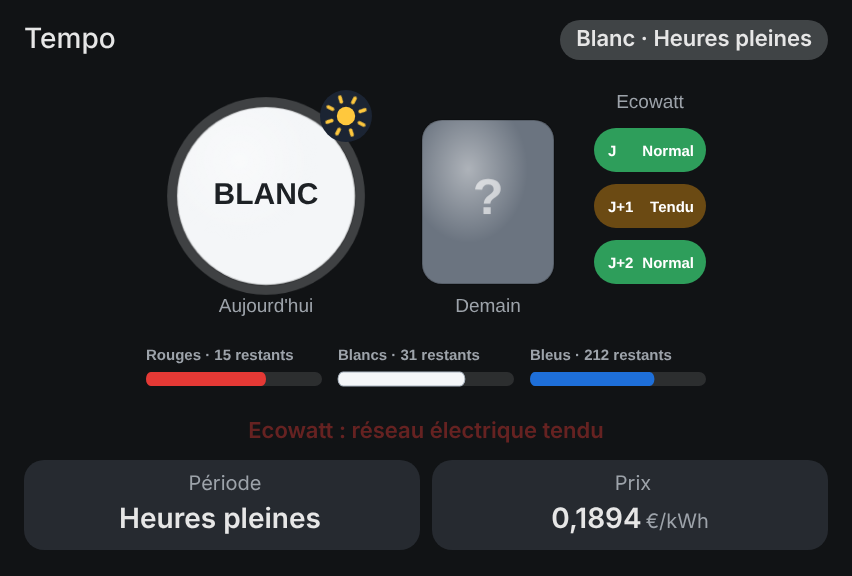
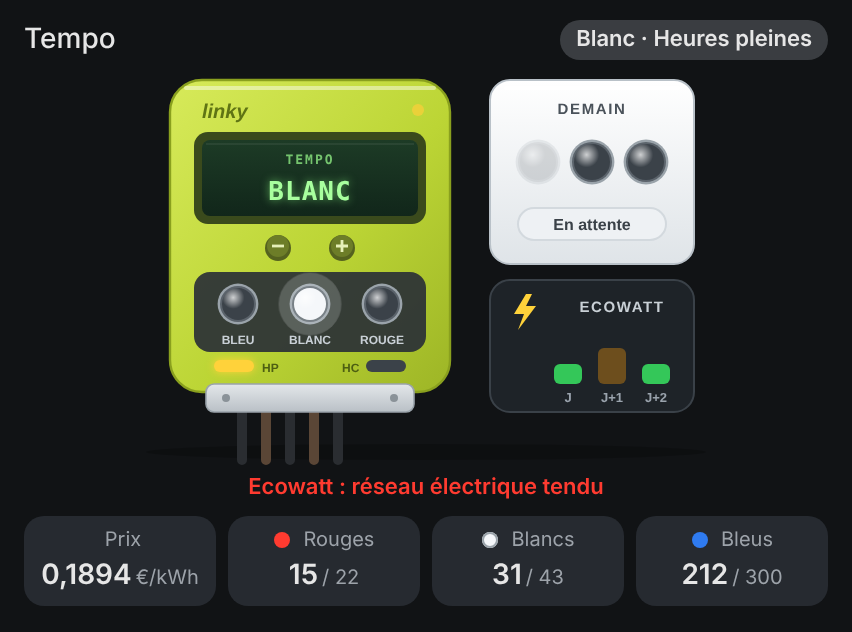
feat: redesign as a Linky meter with Tempo lamps
The plain disc and rectangle are replaced by illustrations in the style
of the appliance cards: a Linky meter whose LCD cycles through today's
colour, period and price, tomorrow and red days left, with three Tempo
lamps, HP / HC lights and a blinking consumption LED; a "tomorrow" lamp
box that chases until RTE publishes the colour; Ecowatt signal bars.
Remaining days move to the tiles.

Claude-Session: https://claude.ai/code/session_01QpEf3WWxbTtBgwTnh4yXSN

diff --git a/ha-tempo-card.js b/ha-tempo-card.js
@@ -3,9 +3,10 @@
  * type: custom:tempo-card
  * MIT License
  */
-/* Aujourd'hui : grand disque à la couleur du jour, soleil (heures pleines) ou lune (heures creuses).
- * Demain : carte « ? » qui pulse tant que RTE n'a pas publié, puis se retourne quand la couleur tombe.
- * Saison : jours rouges, blancs et bleus restants (barres). Ecowatt : J, J+1, J+2 (vert, orange, rouge).
+/* Compteur Linky : l'écran fait défiler couleur du jour, période HP / HC (et prix), lendemain, jours rouges
+ * restants ; trois voyants Tempo dont celui du jour brille ; voyants HP / HC ; LED de consommation.
+ * Boîtier « demain » : chenillard tant que RTE n'a pas publié, puis la lampe du lendemain s'allume.
+ * Ecowatt : trois barres J, J+1, J+2 (vert, orange, rouge) qui clignotent quand le réseau est tendu.
  * Sources : intégration RTE Tempo (hekmon/rtetempo), RTE Ecowatt (kamaradclimber/rte-ecowatt),
  * ou n'importe quel capteur dont l'état contient bleu / blanc / rouge (blue / white / red, 🔵 ⚪ 🔴).
  */
@@ -19,13 +20,13 @@
       name: 'Tempo', today: "Aujourd'hui", tomorrow: 'Demain', blue: 'Bleu', white: 'Blanc', red: 'Rouge', unknown: 'Inconnu',
       hp: 'Heures pleines', hc: 'Heures creuses', period: 'Période', price: 'Prix', left: 'restants', season: 'Saison',
       ecowatt: 'Ecowatt', eco_ok: 'Normal', eco_warn: 'Tendu', eco_cut: 'Coupures', eco_alert: 'Ecowatt : réseau électrique tendu',
-      red_tomorrow: 'Demain : jour ROUGE', red_now: 'Jour rouge en heures pleines', red_left: 'Rouges', white_left: 'Blancs', blue_left: 'Bleus',
+      red_tomorrow: 'Demain : jour ROUGE', red_now: 'Jour rouge en heures pleines', red_left: 'Rouges', white_left: 'Blancs', blue_left: 'Bleus', waiting: 'En attente',
     },
     en: {
       name: 'Tempo', today: 'Today', tomorrow: 'Tomorrow', blue: 'Blue', white: 'White', red: 'Red', unknown: 'Unknown',
       hp: 'Peak hours', hc: 'Off-peak hours', period: 'Period', price: 'Price', left: 'left', season: 'Season',
       ecowatt: 'Ecowatt', eco_ok: 'Normal', eco_warn: 'Strained', eco_cut: 'Outages', eco_alert: 'Ecowatt: power grid under strain',
-      red_tomorrow: 'Tomorrow: RED day', red_now: 'Red day, peak hours', red_left: 'Red', white_left: 'White', blue_left: 'Blue',
+      red_tomorrow: 'Tomorrow: RED day', red_now: 'Red day, peak hours', red_left: 'Red', white_left: 'White', blue_left: 'Blue', waiting: 'Waiting',
     },
   };
   // jours par saison Tempo (1er septembre → 31 août) : 22 rouges, 43 blancs, le reste en bleu
@@ -34,16 +35,16 @@
 
   const CSS = `
 :host{display:block}
-ha-card{display:block;padding:10px 12px 12px;overflow:hidden;--tp-blue:#1e6fd9;--tp-white:#f4f6f8;--tp-red:#e53935;--tp-unk:#6b7480;
-  --eco-0:#2e9e5b;--eco-2:#f39c12;--eco-3:#e53935}
+ha-card{display:block;padding:10px 12px 12px;overflow:hidden;--tp-blue:#2f7bf0;--tp-white:#f5f7fa;--tp-red:#ff3b30;--tp-unk:#6b7480;
+  --eco-ok:#34c759;--eco-warn:#ff9f0a;--eco-cut:#ff3b30}
 .head{display:flex;align-items:center;justify-content:space-between;gap:8px}
 .title{font-size:14px;font-weight:500;color:var(--primary-text-color);white-space:nowrap;overflow:hidden;text-overflow:ellipsis}
 .badge{font-size:11px;font-weight:600;padding:2px 8px;border-radius:12px;background:var(--secondary-background-color);color:var(--secondary-text-color);white-space:nowrap}
-.d-blue .badge{background:color-mix(in srgb,var(--tp-blue) 25%,transparent);color:#5ea2ff}
-.d-white .badge{background:color-mix(in srgb,#cfd6dd 25%,transparent);color:var(--primary-text-color)}
-.d-red .badge{background:color-mix(in srgb,var(--tp-red) 25%,transparent);color:var(--tp-red)}
+.d-blue .badge{background:color-mix(in srgb,var(--tp-blue) 22%,transparent);color:#6aa7ff}
+.d-white .badge{background:color-mix(in srgb,#cfd6dd 22%,transparent);color:var(--primary-text-color)}
+.d-red .badge{background:color-mix(in srgb,var(--tp-red) 22%,transparent);color:var(--tp-red)}
 .alert{display:none;margin-top:4px;font-size:11px;color:var(--tp-red);font-weight:600;text-align:center}
-.alert.on{display:block;animation:tpblink 1.2s steps(2) infinite}
+.alert.on{display:block}
 svg{display:block;width:100%;max-width:300px;height:auto;margin:2px auto 0;overflow:visible;cursor:pointer}
 .tiles{display:grid;grid-template-columns:repeat(auto-fit,minmax(76px,1fr));gap:6px;margin-top:6px}
 .tile{box-sizing:border-box;background:var(--secondary-background-color);border-radius:10px;padding:5px 7px;min-width:0;overflow:hidden;text-align:center;cursor:pointer}
@@ -52,82 +53,104 @@ svg{display:block;width:100%;max-width:300px;height:auto;margin:2px auto 0;overf
 .tile .l ha-icon{--mdc-icon-size:13px;flex:none}
 .tile .v{font-size:14px;line-height:18px;font-weight:600;color:var(--primary-text-color);margin-top:2px;white-space:nowrap;overflow:hidden;text-overflow:ellipsis}
 .tile .v small{font-size:10px;font-weight:400;color:var(--secondary-text-color);margin-left:2px}
-.tile.hide{display:none}
+.tile .dot{display:inline-block;width:8px;height:8px;border-radius:50%;margin-right:4px;vertical-align:1px}
 
-/* ---- illustration ---- */
-.txt{font:700 12px/1 var(--paper-font-body1_-_font-family,Roboto,sans-serif);text-anchor:middle}
-.lab{fill:var(--secondary-text-color);font:500 9.5px/1 var(--paper-font-body1_-_font-family,Roboto,sans-serif);text-anchor:middle}
-.small{font:600 7.5px/1 var(--paper-font-body1_-_font-family,Roboto,sans-serif)}
-/* disque du jour : respire doucement, bat comme un cœur un jour rouge */
-.disc{transform-box:fill-box;transform-origin:center;transition:fill .6s;animation:tpbreath 4s ease-in-out infinite}
-.halo{transform-box:fill-box;transform-origin:center;opacity:.35;animation:tphalo 4s ease-in-out infinite}
-.d-red .disc{animation:tpbeat 1.4s ease-in-out infinite}.d-red .halo{animation:tphalo 1.4s ease-in-out infinite;opacity:.5}
-@keyframes tpbreath{50%{transform:scale(1.03)}}
-@keyframes tpbeat{0%,40%,100%{transform:scale(1)}20%{transform:scale(1.06)}30%{transform:scale(.99)}}
-@keyframes tphalo{0%,100%{transform:scale(1);opacity:.35}50%{transform:scale(1.18);opacity:0}}
-/* soleil (heures pleines) ou lune (heures creuses) */
-.sun,.moon{opacity:0;transition:opacity .6s}
-.hp .sun,.hc .moon{opacity:1}
-.rays{transform-box:fill-box;transform-origin:center;animation:tpspin 12s linear infinite}
-@keyframes tpspin{to{transform:rotate(360deg)}}
-.star{animation:tptw 2s ease-in-out infinite}.star:nth-of-type(2){animation-delay:-.7s}.star:nth-of-type(3){animation-delay:-1.3s}
-@keyframes tptw{50%{opacity:.2}}
-/* carte du lendemain : « ? » qui pulse, puis retournement à la publication */
-.tmr{transform-box:fill-box;transform-origin:center}
-.tmr.flip{animation:tpflip .9s ease-in-out}
-@keyframes tpflip{0%{transform:scaleX(1)}45%{transform:scaleX(0)}55%{transform:scaleX(0)}100%{transform:scaleX(1)}}
-.t-unknown .qm{animation:tpq 1.6s ease-in-out infinite;transform-box:fill-box;transform-origin:center}
-@keyframes tpq{50%{transform:scale(1.15);opacity:.6}}
-.t-red .tcard{filter:drop-shadow(0 0 6px var(--tp-red))}
-/* Ecowatt */
-.eco.l2{animation:tpblink 1.4s steps(2) infinite}.eco.l3{animation:tpblink .7s steps(2) infinite}
+/* ---- compteur : écran LCD qui fait défiler ses pages, comme un vrai Linky ---- */
+.lcd{font:700 13px/1 ui-monospace,"DejaVu Sans Mono",Menlo,monospace;fill:#a8ff9e;letter-spacing:.5px;text-anchor:middle;filter:drop-shadow(0 0 2px rgba(140,255,130,.6))}
+.lcds{font:600 6.5px/1 ui-monospace,"DejaVu Sans Mono",Menlo,monospace;fill:#7fd477;letter-spacing:1px;text-anchor:middle;opacity:.9}
+.page{opacity:0;transition:opacity .45s}
+.page.on{opacity:1}
+.d-red.hp .lcdbg{fill:#2d1714}.d-red.hp .lcd,.d-red.hp .lcds{fill:#ff8f85;filter:drop-shadow(0 0 2px rgba(255,90,80,.6))}
+/* LED de consommation : clignote comme sur le compteur */
+.conso{fill:#ffcf3a;animation:tpled 1.1s steps(2) infinite}
+/* voyants Tempo du jour : éteints sauf la couleur du jour, qui brille et respire */
+.lamp{transition:fill .5s}
+.lamp.dim{fill:#3b4249}
+.glow{opacity:0;transform-box:fill-box;transform-origin:center}
+.lit .glow{opacity:.55;animation:tpglow 2.4s ease-in-out infinite}
+.d-red .lit .glow{animation-duration:1.1s}
+@keyframes tpglow{50%{opacity:.15;transform:scale(1.35)}}
+.hpl{fill:#3b4249}.hp .hpl.p,.hc .hpl.c{fill:#ffd23a;filter:drop-shadow(0 0 2px #ffd23a)}
+.hc .hpl.c{fill:#7fc8ff;filter:drop-shadow(0 0 2px #7fc8ff)}
+/* boîtier « demain » : chenillard tant que RTE n'a pas publié, puis la lampe s'allume */
+.t-unknown .tl{animation:tpchase 1.5s steps(1) infinite}
+.t-unknown .tl:nth-of-type(2){animation-delay:.5s}.t-unknown .tl:nth-of-type(3){animation-delay:1s}
+@keyframes tpchase{0%{opacity:1}33%,100%{opacity:.18}}
+.tl.off{opacity:.18}
+.tl.on{animation:tpon .9s ease-out}
+@keyframes tpon{0%{opacity:.18}20%{opacity:1}35%{opacity:.4}55%,100%{opacity:1}}
+.t-red .tbox{filter:drop-shadow(0 0 6px rgba(255,59,48,.55))}
+.ttxt{font:700 7.5px/1 var(--paper-font-body1_-_font-family,Roboto,sans-serif);fill:#4a525a;text-anchor:middle;letter-spacing:.8px}
+/* Ecowatt : barres façon signal, clignotent si le réseau est tendu */
+.eb.l2{animation:tpled 1.4s steps(2) infinite}.eb.l3{animation:tpled .7s steps(2) infinite}
+.elab{font:600 6.5px/1 var(--paper-font-body1_-_font-family,Roboto,sans-serif);fill:#9aa3ad;text-anchor:middle}
 .noeco .ecog{display:none}
-.bar{transform-box:fill-box;transform-origin:0 50%;transition:transform 1s}
-@keyframes tpblink{50%{opacity:.4}}
+@keyframes tpled{50%{opacity:.35}}
 .noanim *{animation:none!important}
 `;
 
   const SVG = () => `
-<svg viewBox="0 0 300 172" role="img">
+<svg viewBox="0 0 300 200" role="img">
  <defs>
-  <radialGradient id="tpshine" cx=".35" cy=".3" r=".75"><stop offset="0" stop-color="#fff" stop-opacity=".45"/><stop offset=".6" stop-color="#fff" stop-opacity="0"/></radialGradient>
+  <linearGradient id="tplinky" x1="0" y1="0" x2="1" y2="1"><stop offset="0" stop-color="#d7ea5a"/><stop offset=".55" stop-color="#bcd535"/><stop offset="1" stop-color="#9db526"/></linearGradient>
+  <linearGradient id="tpcover" x1="0" y1="0" x2="0" y2="1"><stop offset="0" stop-color="#e3e7ea"/><stop offset="1" stop-color="#b9c0c6"/></linearGradient>
+  <linearGradient id="tpbox" x1="0" y1="0" x2="0" y2="1"><stop offset="0" stop-color="#ffffff"/><stop offset="1" stop-color="#dfe4e8"/></linearGradient>
+  <linearGradient id="tplcd" x1="0" y1="0" x2="0" y2="1"><stop offset="0" stop-color="#1d3b26"/><stop offset="1" stop-color="#11261a"/></linearGradient>
+  <radialGradient id="tpshine" cx=".35" cy=".3" r=".7"><stop offset="0" stop-color="#fff" stop-opacity=".75"/><stop offset=".5" stop-color="#fff" stop-opacity="0"/></radialGradient>
  </defs>
- <!-- aujourd'hui -->
- <circle class="halo" id="tphalo" cx="70" cy="66" r="46"/>
- <circle class="disc" id="tpdisc" cx="70" cy="66" r="44" stroke="rgba(0,0,0,.15)" stroke-width="1"/>
- <circle cx="70" cy="66" r="44" fill="url(#tpshine)" pointer-events="none"/>
- <text class="txt" id="tpdtxt" x="70" y="70" style="font-size:15px">--</text>
- <g class="sun" transform="translate(110 26)">
-  <circle r="13" fill="#1b2433"/>
-  <g class="rays" stroke="#ffc83d" stroke-width="1.8" stroke-linecap="round">
-   <path d="M0 -10 V-7.5 M0 10 V7.5 M-10 0 H-7.5 M10 0 H7.5 M-7 -7 L-5.3 -5.3 M7 7 L5.3 5.3 M-7 7 L-5.3 5.3 M7 -7 L5.3 -5.3"/>
-  </g>
-  <circle r="4.6" fill="#ffc83d"/>
+ <ellipse cx="150" cy="194" rx="140" ry="4" fill="#000" opacity=".2"/>
+ <!-- câbles d'arrivée -->
+ <path d="M58 168 V198 M82 168 V198 M106 168 V198" stroke="#2a2d31" stroke-width="5" stroke-linecap="round"/>
+ <path d="M70 168 V198 M94 168 V198" stroke="#5a4636" stroke-width="5" stroke-linecap="round"/>
+ <!-- compteur Linky -->
+ <rect x="22" y="8" width="140" height="156" rx="16" fill="url(#tplinky)" stroke="#8aa01e" stroke-width="1.2"/>
+ <path d="M30 12 H154" stroke="#fff" stroke-width="2" stroke-linecap="round" opacity=".45"/>
+ <text x="38" y="27" style="font:italic 800 10px var(--paper-font-body1_-_font-family,Roboto,sans-serif);fill:#5f7414">linky</text>
+ <circle class="conso" cx="146" cy="23" r="3"/>
+ <!-- écran -->
+ <rect x="34" y="34" width="116" height="46" rx="7" fill="#3a4a1c"/>
+ <rect class="lcdbg" x="38" y="38" width="108" height="38" rx="4" fill="url(#tplcd)"/>
+ <path d="M40 40 H144" stroke="#fff" stroke-width=".6" opacity=".12"/>
+ <g id="tppages"></g>
+ <!-- boutons -->
+ <circle cx="76" cy="92" r="6.5" fill="#55621f"/><circle cx="76" cy="91" r="5.5" fill="#6d7d28"/><path d="M73 91 H79" stroke="#e6efb8" stroke-width="1.4"/>
+ <circle cx="108" cy="92" r="6.5" fill="#55621f"/><circle cx="108" cy="91" r="5.5" fill="#6d7d28"/><path d="M105 91 H111 M108 88 V94" stroke="#e6efb8" stroke-width="1.4"/>
+ <!-- voyants Tempo du jour -->
+ <rect x="34" y="104" width="116" height="40" rx="8" fill="#2a3036" opacity=".92"/>
+ <g id="tplamps"></g>
+ <g style="font:600 6px var(--paper-font-body1_-_font-family,Roboto,sans-serif);text-anchor:middle;fill:#c9d0d6">
+  <text x="56" y="140">BLEU</text><text x="92" y="140">BLANC</text><text x="128" y="140">ROUGE</text></g>
+ <!-- HP / HC -->
+ <rect class="hpl p" x="44" y="148" width="20" height="6" rx="3"/><rect class="hpl c" x="120" y="148" width="20" height="6" rx="3"/>
+ <g style="font:700 6px var(--paper-font-body1_-_font-family,Roboto,sans-serif);fill:#4d5f12"><text x="68" y="154">HP</text><text x="108" y="154">HC</text></g>
+ <!-- cache-bornes -->
+ <rect x="40" y="160" width="104" height="14" rx="4" fill="url(#tpcover)" stroke="#9aa3aa" stroke-width=".8"/>
+ <circle cx="50" cy="167" r="2" fill="#8a9298"/><circle cx="134" cy="167" r="2" fill="#8a9298"/>
+ <!-- boîtier de voyants « demain » -->
+ <g class="tbox">
+  <rect x="182" y="8" width="102" height="92" rx="10" fill="url(#tpbox)" stroke="#b9c1c8"/>
+  <path d="M190 12 H276" stroke="#fff" stroke-width="2" stroke-linecap="round"/>
+  <text class="ttxt" id="tptitle2" x="233" y="25">DEMAIN</text>
+  <g id="tptmr"></g>
+  <rect x="196" y="72" width="74" height="16" rx="8" fill="#eef1f4" stroke="#d3d9de"/>
+  <text id="tptmrtxt" x="233" y="83" style="font:700 8px var(--paper-font-body1_-_font-family,Roboto,sans-serif);text-anchor:middle;fill:#3a4148">--</text>
  </g>
- <g class="moon" transform="translate(110 26)">
-  <circle r="13" fill="#1b2433"/>
-  <path d="M2 -7 A7.5 7.5 0 1 0 6 5 A6 6 0 1 1 2 -7 Z" fill="#dfe6f0"/>
-  <g fill="#fff"><circle class="star" cx="-7" cy="-5" r=".9"/><circle class="star" cx="5" cy="-8" r=".7"/><circle class="star" cx="-4" cy="7" r=".7"/></g>
- </g>
- <text class="lab" id="tplt" x="70" y="124">--</text>
- <!-- demain -->
- <g class="tmr" id="tptmr">
-  <rect class="tcard" id="tpcard" x="148" y="28" width="66" height="82" rx="10" stroke="rgba(0,0,0,.18)" stroke-width="1"/>
-  <rect x="148" y="28" width="66" height="82" rx="10" fill="url(#tpshine)" pointer-events="none"/>
-  <text class="txt qm" id="tptq" x="181" y="74" style="font-size:22px">?</text>
- </g>
- <text class="lab" id="tplm" x="181" y="124">--</text>
- <!-- Ecowatt J, J+1, J+2 -->
+ <!-- Ecowatt -->
  <g class="ecog">
-  <text class="lab" id="tple" x="262" y="22">Ecowatt</text>
+  <rect x="182" y="108" width="102" height="66" rx="10" fill="#1e2328" stroke="#3a4148"/>
+  <path d="M200 115 l-6 10 h5 l-3 8 l9 -12 h-5 l3 -6 z" fill="#ffd23a"/>
+  <text x="248" y="124" style="font:700 7.5px var(--paper-font-body1_-_font-family,Roboto,sans-serif);fill:#c9d0d6;text-anchor:middle;letter-spacing:.8px">ECOWATT</text>
   <g id="tpeco"></g>
  </g>
- <!-- saison : jours restants -->
- <g id="tpseason"></g>
 </svg>`;
 
   const COL = { blue: 'var(--tp-blue)', white: 'var(--tp-white)', red: 'var(--tp-red)', unknown: 'var(--tp-unk)' };
-  const ECO = ['var(--eco-0)', 'var(--eco-0)', 'var(--eco-2)', 'var(--eco-3)'];
+  const ECO = ['var(--eco-ok)', 'var(--eco-ok)', 'var(--eco-warn)', 'var(--eco-cut)'];
+  const lamp = (cx, cy, r, col, cls) => `<g class="${cls}">
+    <circle cx="${cx}" cy="${cy}" r="${r + 2.2}" fill="#9aa3aa"/><circle cx="${cx}" cy="${cy}" r="${r + 1}" fill="#5b636b"/>
+    <circle class="glow" cx="${cx}" cy="${cy}" r="${r + 4}" fill="${col}"/>
+    <circle class="lamp${/lit|on/.test(cls) ? '' : ' dim'}" cx="${cx}" cy="${cy}" r="${r}" fill="${col}"/>
+    <circle cx="${cx}" cy="${cy}" r="${r}" fill="url(#tpshine)"/></g>`;
 
   class TempoCard extends HTMLElement {
     static getConfigElement() { return document.createElement(TAG + '-editor'); }
@@ -200,6 +223,16 @@ svg{display:block;width:100%;max-width:300px;height:auto;margin:2px auto 0;overf
       });
     }
 
+    connectedCallback() { this._timer = setInterval(() => this._nextPage(), 2800); }
+    disconnectedCallback() { clearInterval(this._timer); }
+    // l'écran du compteur fait défiler ses pages
+    _nextPage() {
+      if (!this._built) return;
+      const pages = this._root.querySelectorAll('.page'); if (!pages.length) return;
+      this._page = ((this._page || 0) + 1) % pages.length;
+      pages.forEach((el, i) => el.classList.toggle('on', i === this._page));
+    }
+
     _build() {
       const root = this.shadowRoot || this.attachShadow({ mode: 'open' });
       root.innerHTML = `<style>${CSS}</style><ha-card>
@@ -219,47 +252,53 @@ svg{display:block;width:100%;max-width:300px;height:auto;margin:2px auto 0;overf
       const eco = [c.entity_ecowatt_today, c.entity_ecowatt_tomorrow, c.entity_ecowatt_day2].map((id) => (id ? this._eco(id) : undefined));
       const hasEco = c.show_ecowatt !== false && eco.some((x) => x !== undefined);
       card.className = `d-${today} t-${tmr} ${hc ? 'hc' : 'hp'}${hasEco ? '' : ' noeco'} ${c.animations === false ? 'noanim' : ''}`;
+      r.querySelector('svg').setAttribute('viewBox', hasEco ? '0 0 300 200' : '0 0 300 200');
 
       r.getElementById('tptitle').textContent = c.name || this._t('name');
       const badge = r.getElementById('tpbadge');
       badge.textContent = `${this._t(today)} · ${this._t(hc ? 'hc' : 'hp')}`; badge.style.display = c.show_status === false ? 'none' : '';
 
-      // aujourd'hui
-      const disc = r.getElementById('tpdisc'), halo = r.getElementById('tphalo'), dt = r.getElementById('tpdtxt');
-      disc.setAttribute('fill', COL[today]); halo.setAttribute('fill', COL[today]);
-      dt.textContent = this._t(today).toUpperCase(); dt.setAttribute('fill', today === 'white' ? '#1d2125' : '#fff');
-      r.getElementById('tplt').textContent = this._t('today');
-      // demain : retournement quand la couleur change (publication RTE vers 11 h)
-      const tg = r.getElementById('tptmr'), tq = r.getElementById('tptq');
-      r.getElementById('tpcard').setAttribute('fill', COL[tmr]);
-      tq.textContent = tmr === 'unknown' ? '?' : this._t(tmr).toUpperCase();
-      tq.style.fontSize = tmr === 'unknown' ? '22px' : '11px';
-      tq.setAttribute('fill', tmr === 'white' ? '#1d2125' : '#fff');
-      if (this._lastTmr !== undefined && this._lastTmr !== tmr) { tg.classList.remove('flip'); void tg.getBBox(); tg.classList.add('flip'); }
-      this._lastTmr = tmr;
-      r.getElementById('tplm').textContent = this._t('tomorrow');
+      // voyants du jour sur le compteur
+      r.getElementById('tplamps').innerHTML = ['blue', 'white', 'red'].map((k, i) => lamp(56 + i * 36, 120, 8, COL[k], k === today ? 'lit' : '')).join('');
 
-      // Ecowatt : trois pastilles J, J+1, J+2
-      r.getElementById('tpeco').innerHTML = hasEco ? eco.map((lv, i) => {
-        const y = 32 + i * 28, lbl = ['J', 'J+1', 'J+2'][i];
-        const col = lv === null || lv === undefined ? 'var(--tp-unk)' : ECO[lv];
-        const txt = lv === null || lv === undefined ? '--' : this._t(lv >= 3 ? 'eco_cut' : lv === 2 ? 'eco_warn' : 'eco_ok');
-        return `<rect class="eco l${lv ?? 'x'}" x="234" y="${y}" width="56" height="22" rx="11" fill="${col}"/>
-          <text class="small" x="241" y="${y + 14}" fill="#fff">${esc(lbl)}</text>
-          <text class="small" x="284" y="${y + 14}" fill="#fff" text-anchor="end">${esc(txt)}</text>`;
-      }).join('') : '';
-
-      // saison : jours restants par couleur
+      // prix en cours et jours restants
+      const price = Number(c[`price_${today}_${hc ? 'hc' : 'hp'}`]);
       const left = { red: this._num(c.entity_red_left), white: this._num(c.entity_white_left), blue: this._num(c.entity_blue_left) };
-      const showSeason = c.show_season !== false && Object.values(left).some((v) => !isNaN(v));
-      r.getElementById('tpseason').innerHTML = showSeason ? ['red', 'white', 'blue'].map((k, i) => {
-        const x = 10 + i * 96, v = left[k], used = isNaN(v) ? 0 : Math.max(0, Math.min(1, 1 - v / TOTAL[k]));
-        const lbl = `${this._t(k + '_left')} · ${isNaN(v) ? '--' : Math.round(v)} ${this._t('left')}`;
-        return `<text class="small" x="${x}" y="148" fill="var(--secondary-text-color)">${esc(lbl)}</text>
-          <rect x="${x}" y="154" width="88" height="7" rx="3.5" fill="rgba(127,127,127,.25)"/>
-          <rect class="bar" x="${x}" y="154" width="88" height="7" rx="3.5" fill="${COL[k]}" stroke="${k === 'white' ? '#aab4bf' : 'none'}" stroke-width=".6" style="transform:scaleX(${(1 - used).toFixed(3)})"/>`;
+      const up = (k) => this._t(k).toUpperCase();
+      // pages de l'écran : couleur du jour, période (et prix), demain, jours rouges restants
+      const pages = [
+        ['TEMPO', up(today)],
+        [this._t('period').toUpperCase(), (hc ? 'HC' : 'HP') + (isFinite(price) && price > 0 ? ` ${this._fmt(price, 4)}` : '')],
+        [this._t('tomorrow').toUpperCase(), tmr === 'unknown' ? '- - ? - -' : up(tmr)],
+      ];
+      if (!isNaN(left.red)) pages.push([this._t('red_left').toUpperCase(), `${Math.round(left.red)}/${TOTAL.red}`]);
+      const pg = r.getElementById('tppages');
+      if (this._page === undefined || this._page >= pages.length) this._page = 0;
+      pg.replaceChildren(...pages.map(([l, v], i) => {
+        const g = document.createElementNS('http://www.w3.org/2000/svg', 'g');
+        g.setAttribute('class', `page${i === this._page ? ' on' : ''}`);
+        g.innerHTML = '<text class="lcds" x="92" y="50"></text><text class="lcd" x="92" y="68"></text>';
+        g.firstChild.textContent = l; g.lastChild.textContent = v;
+        return g;
+      }));
+
+      // boîtier « demain » : trois lampes, celle du lendemain s'allume à la publication
+      const changed = this._lastTmr !== undefined && this._lastTmr !== tmr;
+      r.getElementById('tptmr').innerHTML = ['blue', 'white', 'red'].map((k, i) =>
+        lamp(206 + i * 27, 49, 9, COL[k], `tl ${tmr === 'unknown' ? '' : k === tmr ? (changed ? 'on lit' : 'lit') : 'off'}`)).join('');
+      this._lastTmr = tmr;
+      r.getElementById('tptitle2').textContent = this._t('tomorrow').toUpperCase();
+      const tt = r.getElementById('tptmrtxt');
+      tt.textContent = tmr === 'unknown' ? this._t('waiting') : this._t(tmr);
+      tt.style.fill = tmr === 'red' ? '#d62d22' : tmr === 'blue' ? '#1f63c9' : '#3a4148';
+
+      // Ecowatt : trois barres façon signal (J, J+1, J+2)
+      r.getElementById('tpeco').innerHTML = hasEco ? eco.map((lv, i) => {
+        const x = 214 + i * 22, h = lv === null || lv === undefined ? 6 : [10, 10, 18, 26][lv];
+        const col = lv === null || lv === undefined ? '#4a525a' : ECO[lv];
+        return `<rect class="eb l${lv ?? 'x'}" x="${x}" y="${160 - h}" width="14" height="${h}" rx="3" fill="${col}"/>
+          <text class="elab" x="${x + 7}" y="169">${esc(['J', 'J+1', 'J+2'][i])}</text>`;
       }).join('') : '';
-      r.querySelector('svg').setAttribute('viewBox', showSeason ? '0 0 300 172' : '0 0 300 132');
 
       // alertes
       const alerts = [];
@@ -268,17 +307,20 @@ svg{display:block;width:100%;max-width:300px;height:auto;margin:2px auto 0;overf
       if (hasEco && eco.slice(0, 2).some((x) => x >= 2)) alerts.push(this._t('eco_alert'));
       const al = r.getElementById('tpalert'); al.textContent = alerts.join(' · '); al.classList.toggle('on', alerts.length > 0);
 
-      // tuiles : période et prix en cours (prix par couleur et par période, si renseignés)
-      const price = Number(c[`price_${today}_${hc ? 'hc' : 'hp'}`]);
+      // tuiles : prix en cours, jours restants par couleur
+      // (la période HP / HC est déjà sur le badge et les voyants du compteur)
       const tiles = [];
-      tiles.push(['mdi:clock-outline', this._t('period'), this._t(hc ? 'hc' : 'hp'), '', c.entity_offpeak]);
-      if (isFinite(price) && price > 0) tiles.push(['mdi:cash', this._t('price'), this._fmt(price, 4), `${c.currency || '€'}/kWh`, null]);
-      if (c.entity_price) { const s = this._st(c.entity_price); tiles.push(['mdi:cash', this._t('price'), s ? s.state : '--', (s && s.attributes.unit_of_measurement) || '', c.entity_price]); }
+      if (isFinite(price) && price > 0) tiles.push(['mdi:cash', this._t('price'), this._fmt(price, 4), `${c.currency || '€'}/kWh`, null, null]);
+      if (c.entity_price) { const s = this._st(c.entity_price); tiles.push(['mdi:cash', this._t('price'), s ? s.state : '--', (s && s.attributes.unit_of_measurement) || '', c.entity_price, null]); }
+      if (c.show_season !== false) ['red', 'white', 'blue'].forEach((k) => {
+        if (!isNaN(left[k])) tiles.push([null, this._t(k + '_left'), String(Math.round(left[k])), `/ ${TOTAL[k]}`, c[`entity_${k}_left`], COL[k]]);
+      });
       const tl = r.getElementById('tptiles');
       tl.style.display = c.show_tiles === false ? 'none' : '';
-      tl.replaceChildren(...tiles.map(([ic, l, v, u, id]) => {
+      tl.replaceChildren(...tiles.map(([ic, l, v, u, id, dot]) => {
         const d = document.createElement('div'); d.className = 'tile';
-        d.innerHTML = `<div class="l"><ha-icon icon="${esc(ic)}"></ha-icon><span></span></div><div class="v"><b></b><small></small></div>`;
+        d.innerHTML = `<div class="l">${ic ? `<ha-icon icon="${esc(ic)}"></ha-icon>` : '<i class="dot"></i>'}<span></span></div><div class="v"><b></b><small></small></div>`;
+        if (dot) { const i = d.querySelector('.dot'); i.style.background = dot; if (dot === COL.white) i.style.boxShadow = 'inset 0 0 0 1px #9aa3aa'; }
         d.querySelector('.l span').textContent = l; d.querySelector('.v b').textContent = v; d.querySelector('.v small').textContent = u;
         d.querySelector('.v b').style.fontWeight = 'inherit';
         if (id) d.addEventListener('click', () => this._more(id));

diff --git a/README.md b/README.md
@@ -14,12 +14,11 @@ Carte Lovelace **animée** pour l'offre **Tempo d'EDF** et le signal **Ecowatt d
 
 ## Ce que montre la carte
 
-- **Aujourd'hui** : un grand disque bleu, blanc ou rouge qui respire doucement (et bat comme un cœur un jour rouge), avec un **soleil** en heures pleines et une **lune** étoilée en heures creuses.
-- **Demain** : une carte **« ? »** qui pulse tant que RTE n'a pas publié la couleur, puis **se retourne** quand elle tombe (vers 11 h).
-- **Saison** : les jours **rouges, blancs et bleus restants** (22 rouges et 43 blancs par saison, du 1er septembre au 31 août).
-- **Ecowatt** : trois pastilles J, J+1, J+2 (vert, orange, rouge) qui clignotent quand le réseau est tendu.
+- **Un compteur Linky** dont l'écran fait défiler, comme le vrai, la couleur du jour, la période (HP / HC, avec le prix si tu as renseigné tes tarifs), la couleur du lendemain et les jours rouges restants. Ses trois **voyants Tempo** sont éteints sauf celui du jour, qui brille (et pulse plus vite un jour rouge). Voyants **HP / HC** et LED de consommation qui clignote.
+- **Un boîtier « Demain »** : ses trois lampes font un **chenillard** tant que RTE n'a pas publié la couleur, puis la lampe du lendemain **s'allume** quand elle tombe (vers 11 h). Le boîtier s'entoure de rouge si demain est un jour rouge.
+- **Ecowatt** : trois barres J, J+1, J+2 (vert, orange, rouge) qui clignotent quand le réseau est tendu.
 - **Alertes** : « Demain : jour ROUGE », « Jour rouge en heures pleines », « Ecowatt : réseau électrique tendu ».
-- **Tuiles** : période en cours (HP / HC) et **prix du kWh** en cours si tu renseignes tes tarifs.
+- **Tuiles** : prix du kWh en cours et jours **rouges, blancs, bleus restants** de la saison (22 rouges et 43 blancs, du 1er septembre au 31 août).
 
 ## Installation
 
@@ -98,4 +97,4 @@ MIT. Données Tempo et Ecowatt fournies par RTE via les intégrations citées ; 
 
 ### English
 
-Animated Lovelace card for the French **EDF Tempo** tariff and the **RTE Ecowatt** grid signal: today's and tomorrow's colour (a "?" card that flips when RTE publishes it), off-peak hours with a sun / moon, remaining red / white / blue days, Ecowatt for the next 3 days, current price. Works with the [RTE Tempo](https://github.com/hekmon/rtetempo) and [RTE Ecowatt](https://github.com/kamaradclimber/rte-ecowatt) integrations or any sensor whose state contains blue / white / red. Set `language: en` for English labels.
+Animated Lovelace card for the French **EDF Tempo** tariff and the **RTE Ecowatt** grid signal: a Linky meter whose screen cycles through today's colour, peak / off-peak period and price, with a lit Tempo lamp; a "tomorrow" box whose lamps chase until RTE publishes the colour, remaining red / white / blue days, Ecowatt for the next 3 days, current price. Works with the [RTE Tempo](https://github.com/hekmon/rtetempo) and [RTE Ecowatt](https://github.com/kamaradclimber/rte-ecowatt) integrations or any sensor whose state contains blue / white / red. Set `language: en` for English labels.
